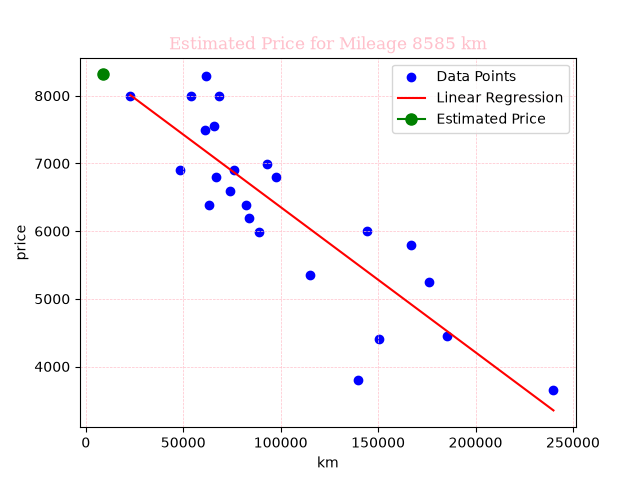
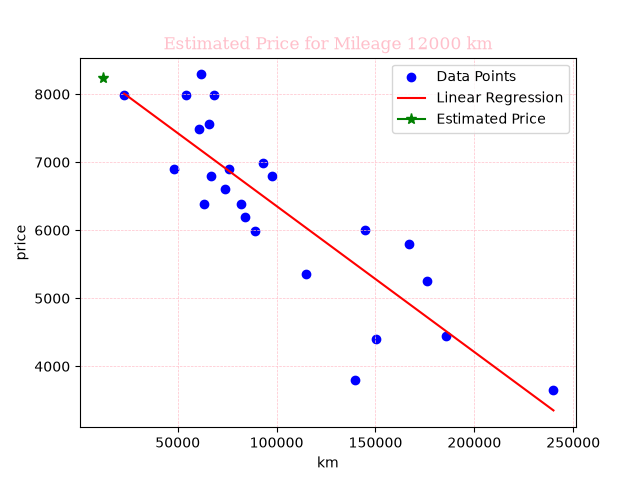
fixe the programme 0 and programme 1

diff --git a/predict.py b/predict.py
@@ -8,46 +8,49 @@ import os
 def verify_input(inpt):
 
     try:
-        x = int(inpt)
+        return int(inpt)
     except ValueError:
         print("wrong input")
         return False
-    return int(inpt)
-
 
 def check_path_parameters():
 
     a = Path("model_parameters.txt")
     if not a.exists():
-        print("file of paramaters.txt doesn't exists")
+        df = pd.read_csv("data.csv")
+        data = np.array(df)
+        mileage = data[:, 0]
+        price = data[:, 1]
+        with open("initalParam.txt","w") as file:
+            file.write(f"0,0,{mileage.min()},{mileage.max()}")
         return False
     x = os.stat("model_parameters.txt").st_size
     if x == 0:
-        print("empty file")
+        return False
     return True
 
-def print_paramettre(input_mileage,mileage_min,mileage_max,normalized_input,theta0,theta1 ):
-    print("input_mileage:", input_mileage)
-    print("mileage_min:", mileage_min)
-    print("mileage_max:", mileage_max)
-    print("normalized_input:", normalized_input)
-    print("theta0:", theta0)
-    print("theta1:", theta1)
-
-def calcule_predection_price(input_mileage):
-    with open("model_parameters.txt", "r") as f:
-            theta0, theta1, mileage_min, mileage_max = map(
-                float,
-                f.read().split(",")
-            )
+def calcule_predection_price(input_mileage,flag):
+    
+    if flag == 0:
+        with open("initalParam.txt","r") as f:
+                theta0, theta1, mileage_min, mileage_max = map(
+                    float,
+                    f.read().split(",")
+                )
+    else:
+        with open("model_parameters.txt", "r") as f:
+                theta0, theta1, mileage_min, mileage_max = map(
+                    float,
+                    f.read().split(",")
+                )
         
     normalized_input = (
             input_mileage - mileage_min
         ) / (mileage_max - mileage_min)
     estimated_price = theta0 + theta1 * normalized_input
-    print_paramettre(input_mileage,mileage_min,mileage_max,normalized_input,theta0,theta1)
-    print(f"Estimated price for {input_mileage} km: {estimated_price}")
-    graph_data(mileage_min,mileage_max,theta0,theta1)
+    print(f"Estimated price for {input_mileage} km: {estimated_price:.2f}")
+    if flag == 1:
+        graph_data(mileage_min,mileage_max,theta0,theta1)
     return estimated_price
 
 def graph_data(mileage_min,mileage_max,theta0,theta1):
@@ -76,7 +79,7 @@ def save_graph(input_mileage,estimated_price):
     f = pd.read_csv("data.csv")
     x = f.columns.tolist()
     plt.title(f"Estimated Price for Mileage {input_mileage} km",fontdict={'family':'serif','color':'pink','size':12})
-    plt.plot(input_mileage, estimated_price, marker='o', markersize=8, color='green', label='Estimated Price')
+    plt.plot(input_mileage, estimated_price, marker='*', markersize=8, color='green', label='Estimated Price')
     plt.xlabel(x[0])
     plt.ylabel(x[1])
     plt.grid(color = 'pink', linestyle = '--', linewidth = 0.5)
@@ -91,15 +94,10 @@ def main():
         input_mileage = verify_input(inpt)
         if not input_mileage :
             return 
-        
         if not check_path_parameters():
+            calcule_predection_price(input_mileage,0)
             return
-        with open("model_parameters.txt", "r") as f:
-            theta0, theta1, mileage_min, mileage_max = map(
-                float,
-                f.read().split(",")
-            )
-        estimated_price = calcule_predection_price(input_mileage)
+        estimated_price = calcule_predection_price(input_mileage,1)
         save_graph(input_mileage,estimated_price)
         return
 if __name__ == "__main__":

diff --git a/train.py b/train.py
@@ -51,11 +51,11 @@ def estimate_price(mileage, theta0, theta1):
     return theta0 + theta1 * mileage
 
 def normalize_data(mileage):
-     normalized_mileage = (mileage - mileage.min()) / (mileage.max() - mileage.min())
-     return normalized_mileage,mileage.min(), mileage.max()
+    normalized_mileage = (mileage - mileage.min()) / (mileage.max() - mileage.min())
+    return normalized_mileage,mileage.min(), mileage.max()
 
 
-def train_model(mileage, price, theta0, theta1, learning_rate=0.01, num_iterations=1000000):
+def train_model(mileage, price, theta0, theta1, learning_rate=0.01, num_iterations=100000):
     m = len(mileage)
     for i in range(num_iterations):
         estimated_price = estimate_price(mileage, theta0, theta1)
@@ -67,7 +67,7 @@ def train_model(mileage, price, theta0, theta1, learning_rate=0.01, num_iteratio
         sum_error_mileage = np.sum(error * mileage)
         average_error_mileage = sum_error_mileage / m
         tmpθ1 = learning_rate * average_error_mileage
-
+        
         theta0 -= tmpθ0
         theta1 -= tmpθ1
     print(f"Training completed. Final parameters: theta0 = {theta0}, theta1 = {theta1}")
